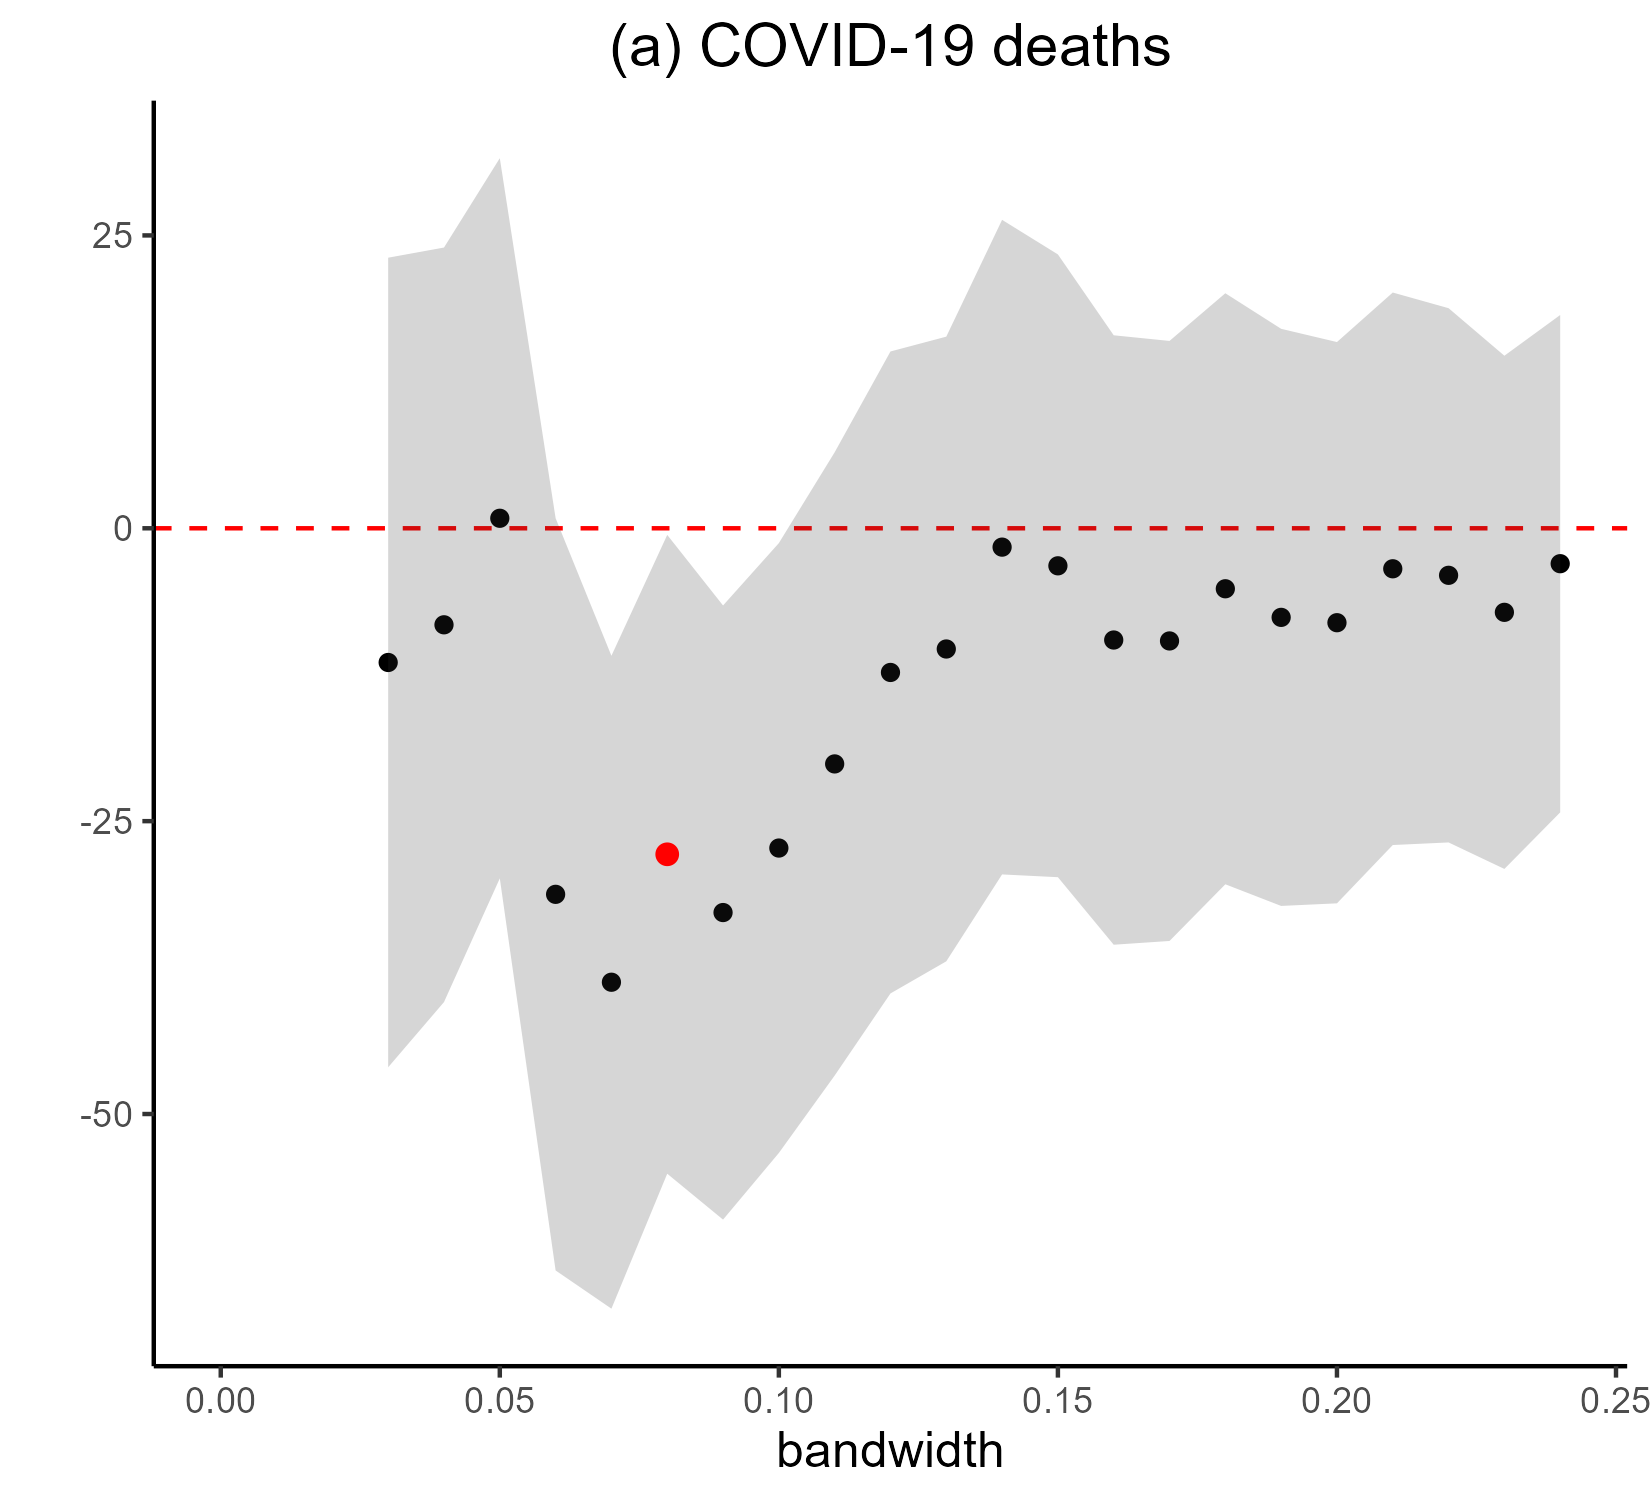
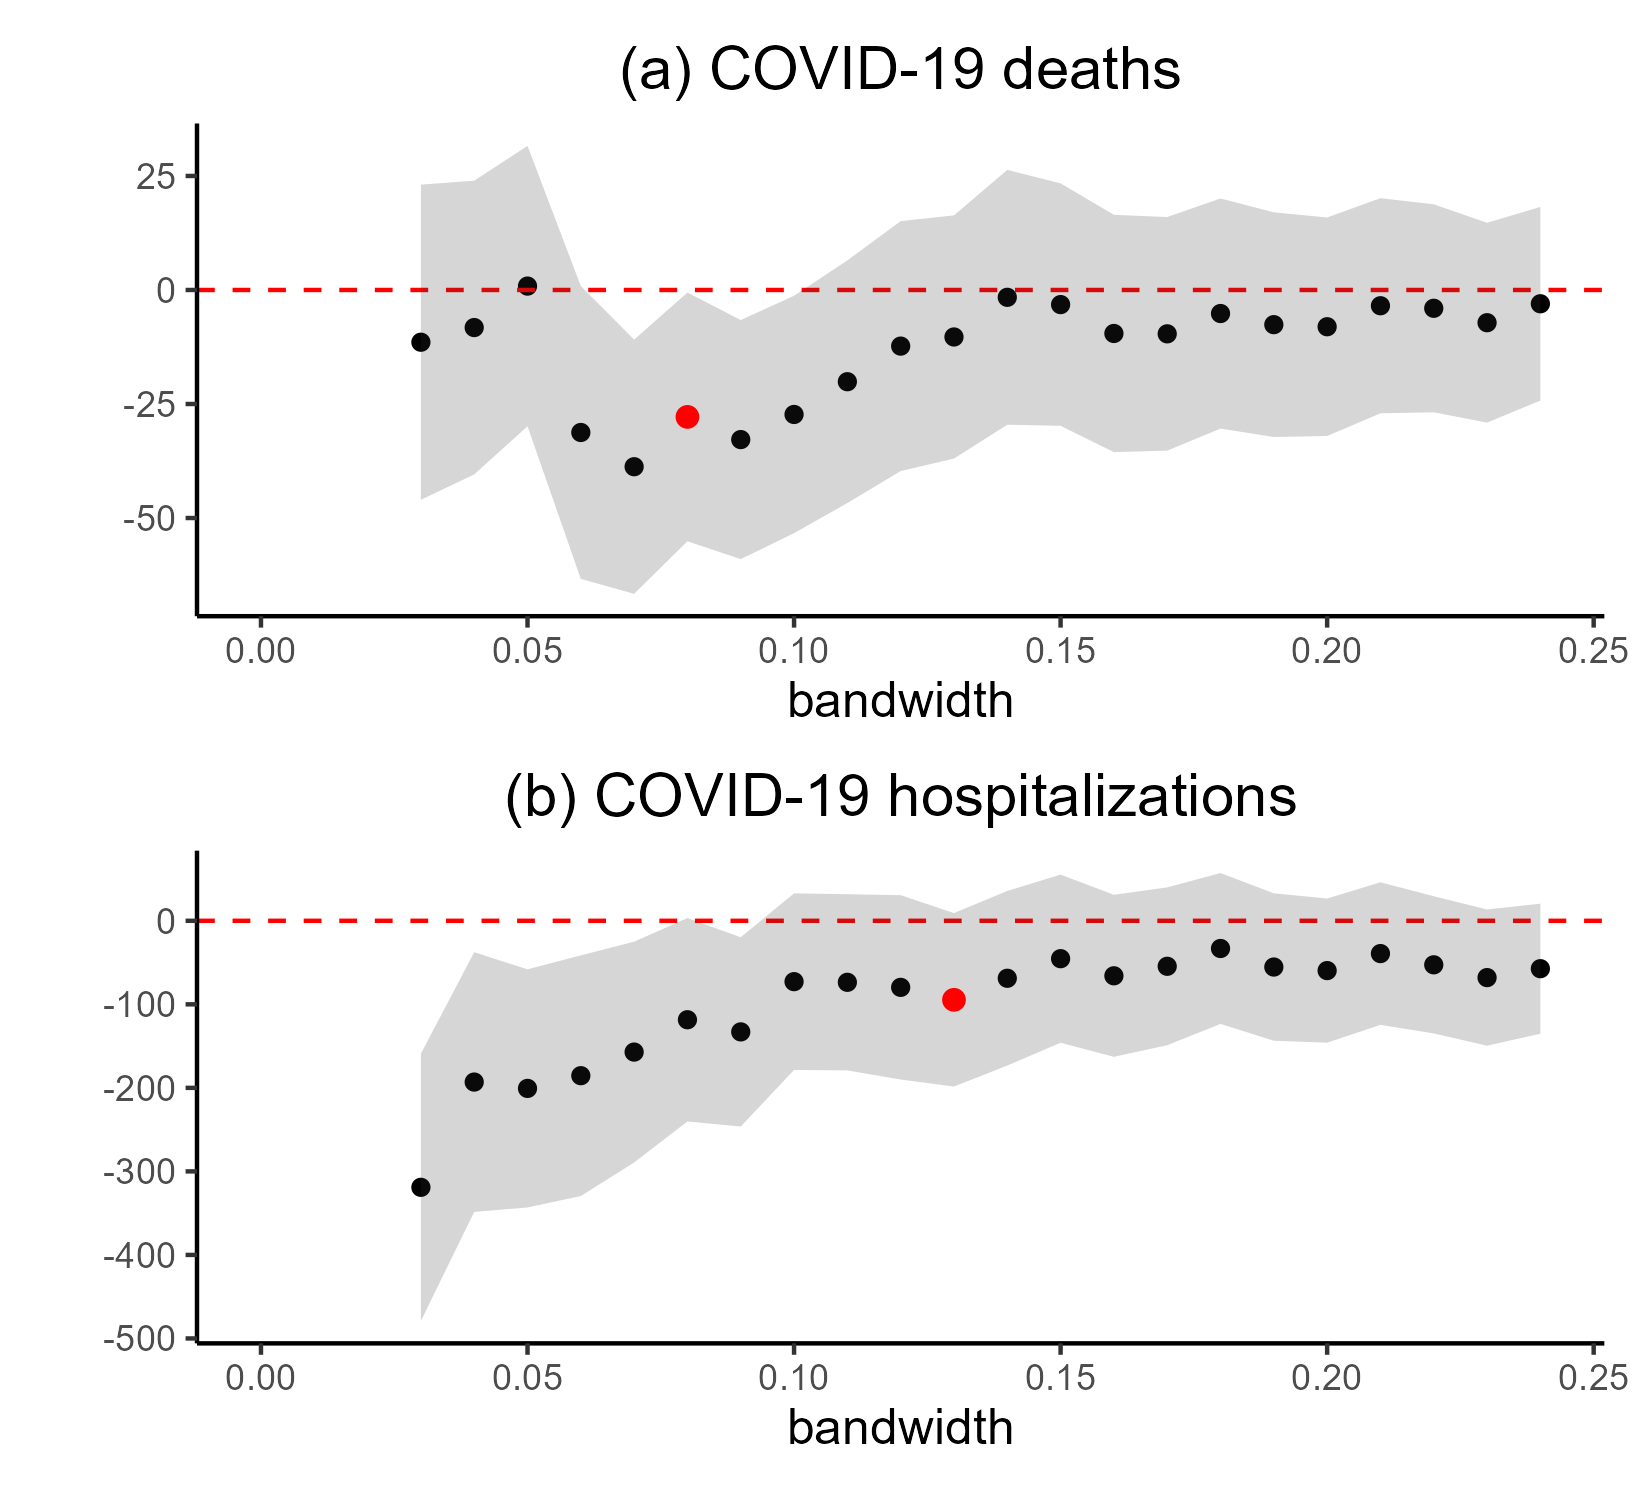
tables with Controls row

diff --git a/outputs/tables/estimates_hosp.tex b/outputs/tables/estimates_hosp.tex
@@ -1,7 +1,7 @@
 \begin{table}
 \centering
 \begin{talltblr}[         %% tabularray outer open
-caption={Impact of STEM Leadership on Deaths — RD estimates},
+caption={Impact of STEM Leadership on Hospitalizations — RD estimates},
 ]                     %% tabularray outer close
 {                     %% tabularray inner open
 colspec={Q[]Q[]Q[]Q[]Q[]Q[]},
@@ -11,11 +11,11 @@ hline{5}={1,2,3,4,5,6}{solid, black, 0.05em},
 }                     %% tabularray inner close
 \toprule
 & (1) & (2) & (3) & (4) & (5) \\ \midrule %% TinyTableHeader
-RD estimator & \num{19.23} & \num{-35.61} & \num{-27.83} & \num{-27.30} & \num{-12.31} \\
-& [\num{21.21}] & [\num{16.58}] & [\num{16.58}] & [\num{15.82}] & [\num{16.66}] \\
-& \num{0.36} & \num{0.03}** & \num{0.09}* & \num{0.08}* & \num{0.46} \\
-Eff.N.obs. & 79 & 109 & 107 & 139 & 167 \\
-Bandwidth & 5.73 & 8.2 & 8 & 10 & 12 \\
+RD estimator & \num{-79.04} & \num{-83.17} & \num{-118.45} & \num{-72.85} & \num{-79.69} \\
+& [\num{81.86}] & [\num{62.05}] & [\num{74.03}] & [\num{64.28}] & [\num{67.09}] \\
+& \num{0.33} & \num{0.18} & \num{0.11} & \num{0.26} & \num{0.23} \\
+Eff.N.obs. & 100 & 184 & 107 & 139 & 167 \\
+Bandwidth & 7.22 & 13.31 & 8 & 10 & 12 \\
 Mayor Controls & No & Yes & Yes & Yes & Yes \\
 \bottomrule
 \end{talltblr}

diff --git a/outputs/tables/estimates_all_panels.tex b/outputs/tables/estimates_all_panels.tex
@@ -26,6 +26,7 @@ cell{16}{1}={}{halign=l, preto={\hspace{1em}},},
 cell{17}{1}={}{halign=l, preto={\hspace{1em}},},
 cell{18}{1}={}{halign=l, preto={\hspace{1em}},},
 cell{19}{1}={}{halign=l, preto={\hspace{1em}},},
+cell{20}{1}={}{halign=l, preto={\hspace{1em}},},
 }                     %% tabularray inner close
 \toprule
 & (1) & (2) & (3) & (4) & (5) \\ \midrule %% TinyTableHeader
@@ -47,6 +48,7 @@ RD estimator & -28.83 & -24.02 & -7.88 & -23.76 & -22.74 \\
 & 0.01** & 0.04** & 0.62 & 0.11 & 0.10* \\
 Eff.N.obs. & 468 & 487 & 234 & 288 & 338 \\
 Bandwidth & 17.28 & 18.06 & 8 & 10 & 12 \\
+Mayor Controls & No & Yes & Yes & Yes & Yes \\
 \bottomrule
 \end{talltblr}
 \end{table}

diff --git a/outputs/tables/mechanism.tex b/outputs/tables/mechanism.tex
@@ -15,6 +15,7 @@ Robust & \num{0.87} & \num{0.27} & \num{0.16} & \num{0.20} & \num{0.52} & \num{-
 & \num{<0.01}*** & \num{<0.01}*** & \num{0.33} & \num{0.05}* & \num{<0.01}*** & \num{0.12} \\
 Eff.N.obs. & 76 & 78 & 78 & 78 & 76 & 79 \\
 Bandwidth & 8.2 & 8.2 & 8.2 & 8.2 & 8.2 & 8.2 \\
+Mayor Controls & Yes & Yes & Yes & Yes & Yes & Yes \\
 \bottomrule
 \end{talltblr}
 \end{table}
